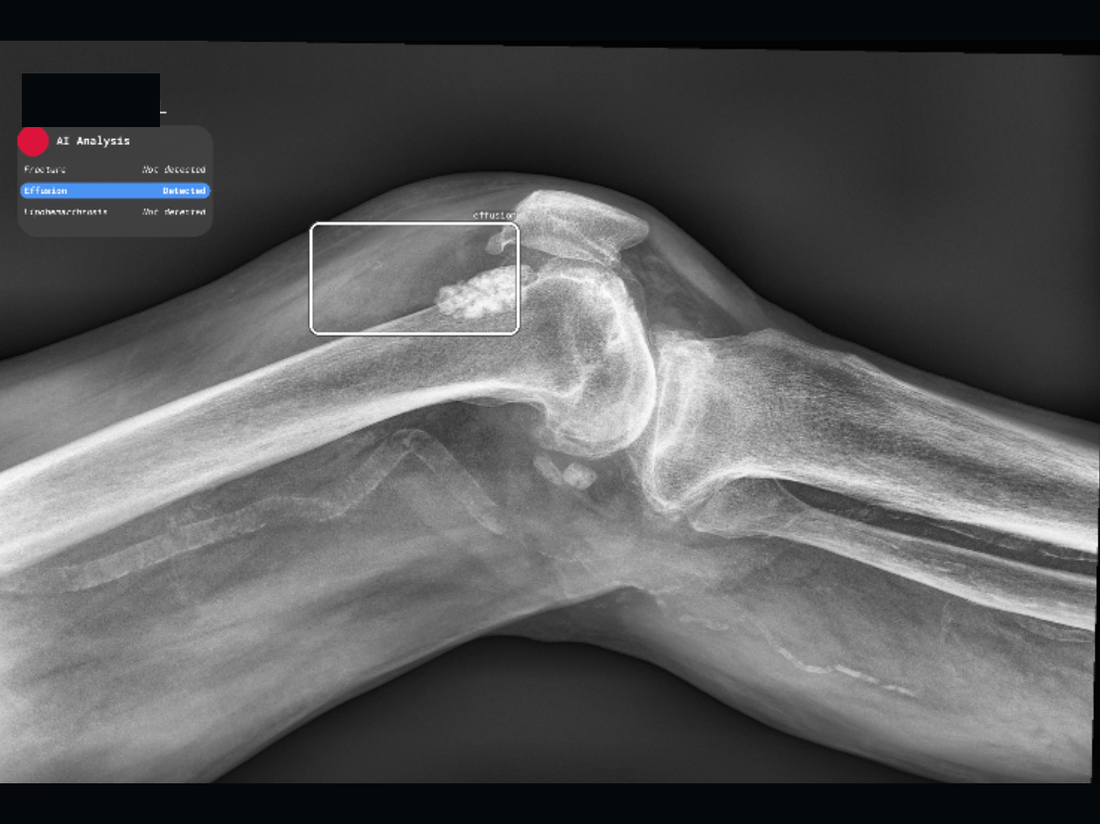
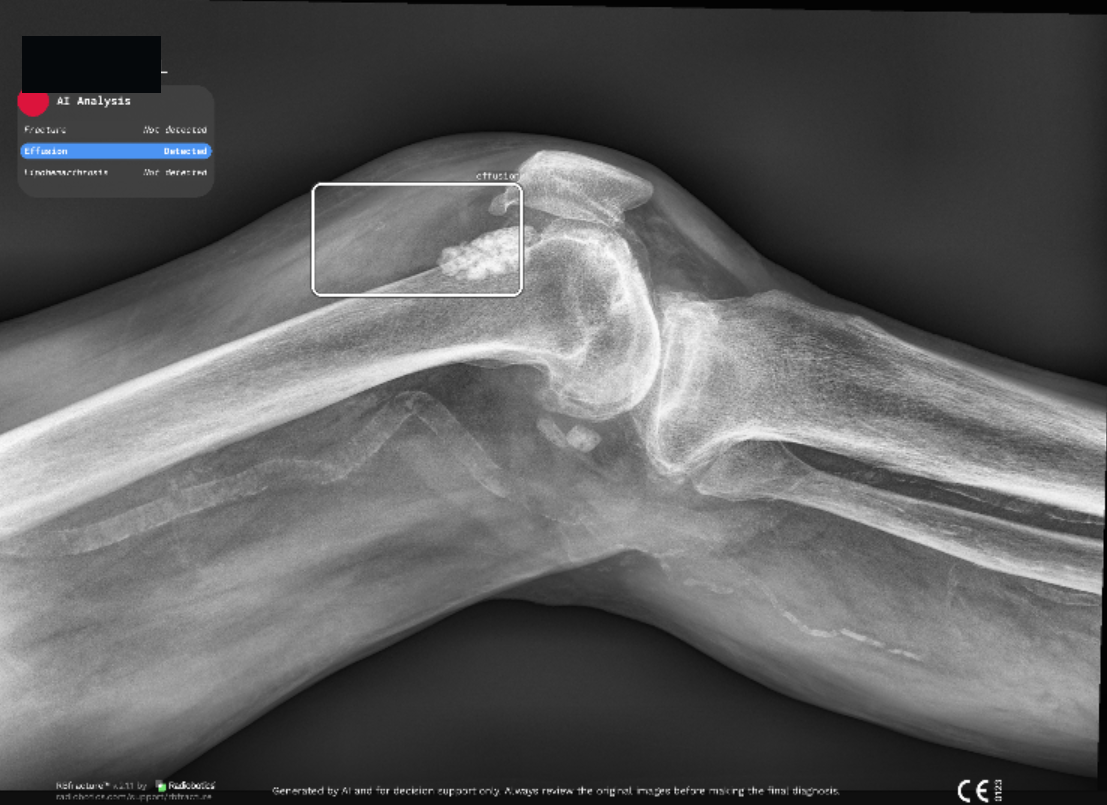
AI read panels: restore the full vendor output and stop stretching it

diff --git a/styles.css b/styles.css
@@ -1511,3 +1511,34 @@ button.steps__item.is-live:hover { color: var(--paper); }
   width: 6px; height: 6px; border-radius: 50%; background: var(--cyan);
 }
 .ailist b { color: var(--paper); font-weight: 600; }
+
+/* the AI read must be legible: it carries the verdict chip, the marker and the
+   decision-support disclaimer that ships with the vendor output */
+@media (min-width: 901px) {
+  .thumb img { max-height: min(42vh, 380px); }
+}
+@media (max-height: 830px) and (min-width: 721px) {
+  .thumb img { max-height: min(34vh, 300px); }
+}
+@media (max-width: 620px) {
+  .thumb img { max-height: 40vh; }
+}
+
+/* the AI panel must keep its own aspect: width:100% plus a capped height was
+   stretching it, which is what made the read look cropped */
+.thumb img {
+  width: auto;
+  height: auto;
+  max-width: 100%;
+  max-height: min(40vh, 360px);
+  object-fit: contain;
+  display: block;
+  margin: 0 auto;
+}
+@media (max-height: 830px) and (min-width: 721px) { .thumb img { max-height: min(30vh, 260px); } }
+@media (max-width: 620px) { .thumb img { max-height: 34vh; } }
+
+/* AI panel caption and the last 2 px of the quiz layout */
+.thumb figcaption { color: var(--paper-dim); letter-spacing: .1em; margin-top: 4px; }
+.reveal__pair { gap: 4px; }
+.reveal { gap: 6px; }
